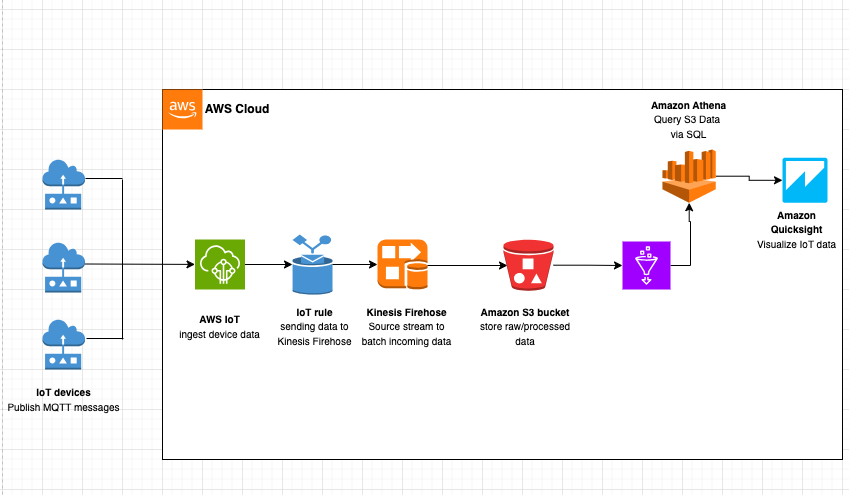
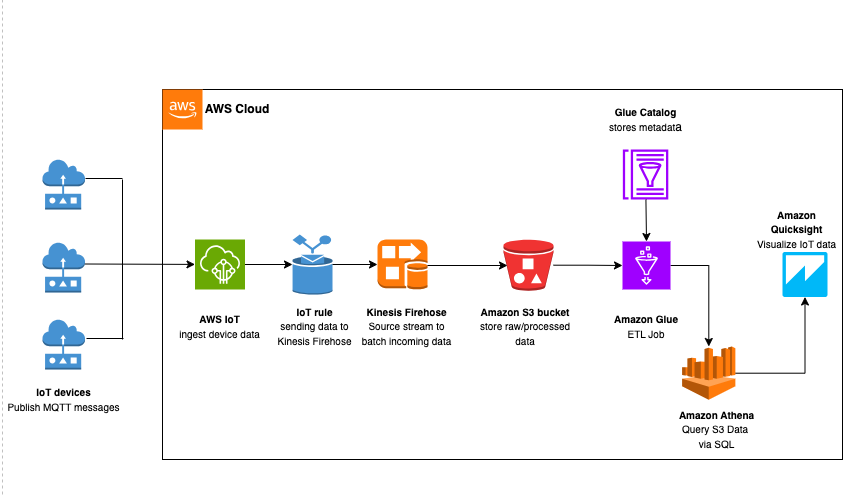
add README

diff --git a/README.md b/README.md
@@ -1,0 +1,110 @@
+# 📊 IoT Energy Monitoring Dashboard (AWS Native & Serverless)
+
+This project provides a **real-time, serverless, and cost-effective IoT data monitoring solution** for energy consumption tracking using AWS services. It ingests data from IoT devices, processes and stores it efficiently, and visualizes insights in an interactive dashboard via **Amazon QuickSight**.
+
+---
+
+## 🚀 Project Objective
+
+XYZ Limited needs a robust system to monitor **real-time energy consumption** from IoT-connected devices installed in apartments. This solution aims to:
+
+- Minimize operational cost
+- Ensure real-time visibility
+- Support fault-tolerance and scalability
+- Maintain security and compliance
+
+---
+
+## 🧱 Architecture Overview
+
+![Architecture Diagram](./image/IOT%20Monitoring%20Architecture.png)
+
+### 🔄 Data Flow:
+1. **IoT Devices** publish energy metrics via MQTT.
+2. **AWS IoT Core** ingests messages securely (TLS).
+3. **IoT Rule** routes data to **Amazon Kinesis Firehose**.
+4. **Firehose** batches and delivers data to **Amazon S3**.
+5. **Amazon Athena** queries the stored data via SQL.
+6. **Amazon QuickSight** visualizes metrics in real-time dashboards.
+
+---
+
+## ⚙ AWS Services Used
+
+| Service               | Purpose                                                |
+|-----------------------|--------------------------------------------------------|
+| AWS IoT Core          | Ingests MQTT messages from IoT devices                 |
+| IoT Rules             | Applies filters and routes data to Kinesis             |
+| Amazon Kinesis Firehose | Buffers and batches streaming data to S3             |
+| Amazon S3             | Stores raw and processed IoT data                      |
+| AWS Glue (optional)   | Catalogs S3 data for Athena queries                    |
+| Amazon Athena         | Executes SQL queries over S3 data                      |
+| Amazon QuickSight     | Visualizes query results in dashboards                 |
+| IAM                   | Secures access and enforces least-privilege policies  |
+
+---
+
+## 🔐 Security Considerations
+
+- **Data Encryption**: 
+In Transit: Data transmitted from IoT devices to AWS IoT Core, as well as between services (Kinesis, Lambda, S3, etc.), is encrypted using TLS (Transport Layer Security) to ensure the confidentiality of sensitive data.
+
+
+- **IAM Roles and Policies**:
+AWS Identity and Access Management (IAM) roles and policies are configured to ensure least-privilege access. Each service only has the permissions necessary to perform its specific tasks (e.g., IoT Core only sends data to Kinesis).
+
+---
+
+## 💰 Cost Optimization Strategies
+
+- **Fully serverless** (no EC2 or manually managed infrastructure)
+- **Kinesis Firehose batching** reduces write costs to S3
+- **Athena pay-per-query model**
+- **S3 lifecycle policies** (optional) to transition or delete old data
+
+---
+
+## 📈 Scalability & Reliability
+
+- **Auto-scaling ingestion** with IoT Core and Kinesis
+- **Decoupled services** for modular failure recovery
+- **High-availability** storage and compute layers (S3, Athena, QuickSight)
+
+---
+
+## 📂 Project Structure
+
+```bash
+.
+├── modules/
+│   ├── iot_core/
+│   ├── firehose/
+│   ├── s3/
+│   ├── athena/
+│   └── quicksight/
+├── main.tf
+├── variables.tf
+├── terraform.tfvars
+├── outputs.tf
+├── README.md
+└── README.md
+```
+
+
+## 🧪 How to Deploy
+1. Install Terraform
+
+2. Configure AWS CLI:
+```bash
+aws configure
+```
+3. Initialize Terraform:
+```bash
+terraform init
+```
+4. Plan & Apply:
+```bash
+terraform plan
+terraform apply
+```
+
